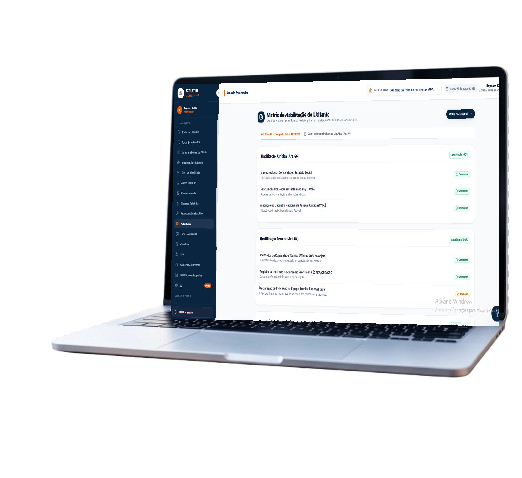
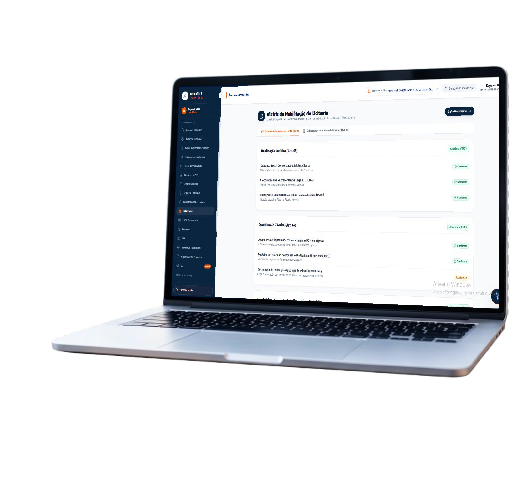
fix: ajustar encaixe exato das telas dentro do display do notebook e remover badge de modulo ativo

diff --git a/frontend/src/pages/LandingPage.tsx b/frontend/src/pages/LandingPage.tsx
@@ -303,14 +303,7 @@ export default function LandingPage() {
                      {/* Iluminação Ambiente Suave */}
                      <div className="absolute -inset-4 sm:-inset-10 bg-gradient-to-tr from-[#EA580C]/20 via-[#0A2540]/10 to-blue-600/20 rounded-full blur-3xl opacity-70 pointer-events-none" />
 
-                     {/* Badge de Módulo Ativo */}
-                     <div className="mb-3 z-20 flex items-center gap-2 bg-[#0A2540] text-white border border-slate-700/60 px-4 py-1.5 rounded-full shadow-md text-xs font-bold">
-                        <span className="w-2 h-2 rounded-full bg-emerald-400 animate-pulse shrink-0" />
-                        <span className="text-slate-300">Módulo Ativo:</span>
-                        <span className="text-[#EA580C]">{LAPTOP_SLIDES[activeSlide].tag}</span>
-                     </div>
-
-                     {/* Mockup do Laptop Calmo (sem oscilação brusca) */}
+                     {/* Mockup do Laptop Calmo com Encaixe Perfeito de Tela */}
                      <motion.div
                         animate={{ y: [0, -4, 0] }}
                         transition={{ 
@@ -342,25 +335,22 @@ export default function LandingPage() {
                      </motion.div>
 
                      {/* Navegação Interativa entre os Módulos do Sistema */}
-                     <div className="w-full flex flex-col items-center mt-3 z-20 space-y-2">
-                        <div className="flex flex-wrap items-center justify-center gap-1.5">
+                     <div className="w-full flex items-center justify-center mt-3 z-20">
+                        <div className="flex flex-wrap items-center justify-center gap-1.5 bg-slate-100/80 p-1.5 rounded-2xl border border-slate-200 shadow-sm">
                            {LAPTOP_SLIDES.map((slide, idx) => (
                               <button
                                  key={slide.id}
                                  onClick={() => setActiveSlide(idx)}
-                                 className={`px-2.5 py-1 rounded-lg text-[10px] font-bold uppercase tracking-wider transition-all ${
+                                 className={`px-3 py-1.5 rounded-xl text-[10px] font-bold uppercase tracking-wider transition-all ${
                                     activeSlide === idx
                                        ? 'bg-[#0A2540] text-white shadow-sm ring-2 ring-[#EA580C]'
-                                       : 'bg-slate-100 text-slate-600 hover:bg-slate-200'
+                                       : 'text-slate-600 hover:text-slate-900 hover:bg-slate-200/60'
                                  }`}
                               >
                                  {slide.tag}
                               </button>
                            ))}
                         </div>
-                        <p className="text-[11px] text-slate-500 font-medium text-center italic">
-                           {LAPTOP_SLIDES[activeSlide].subtitle}
-                        </p>
                      </div>
                   </div>
 
